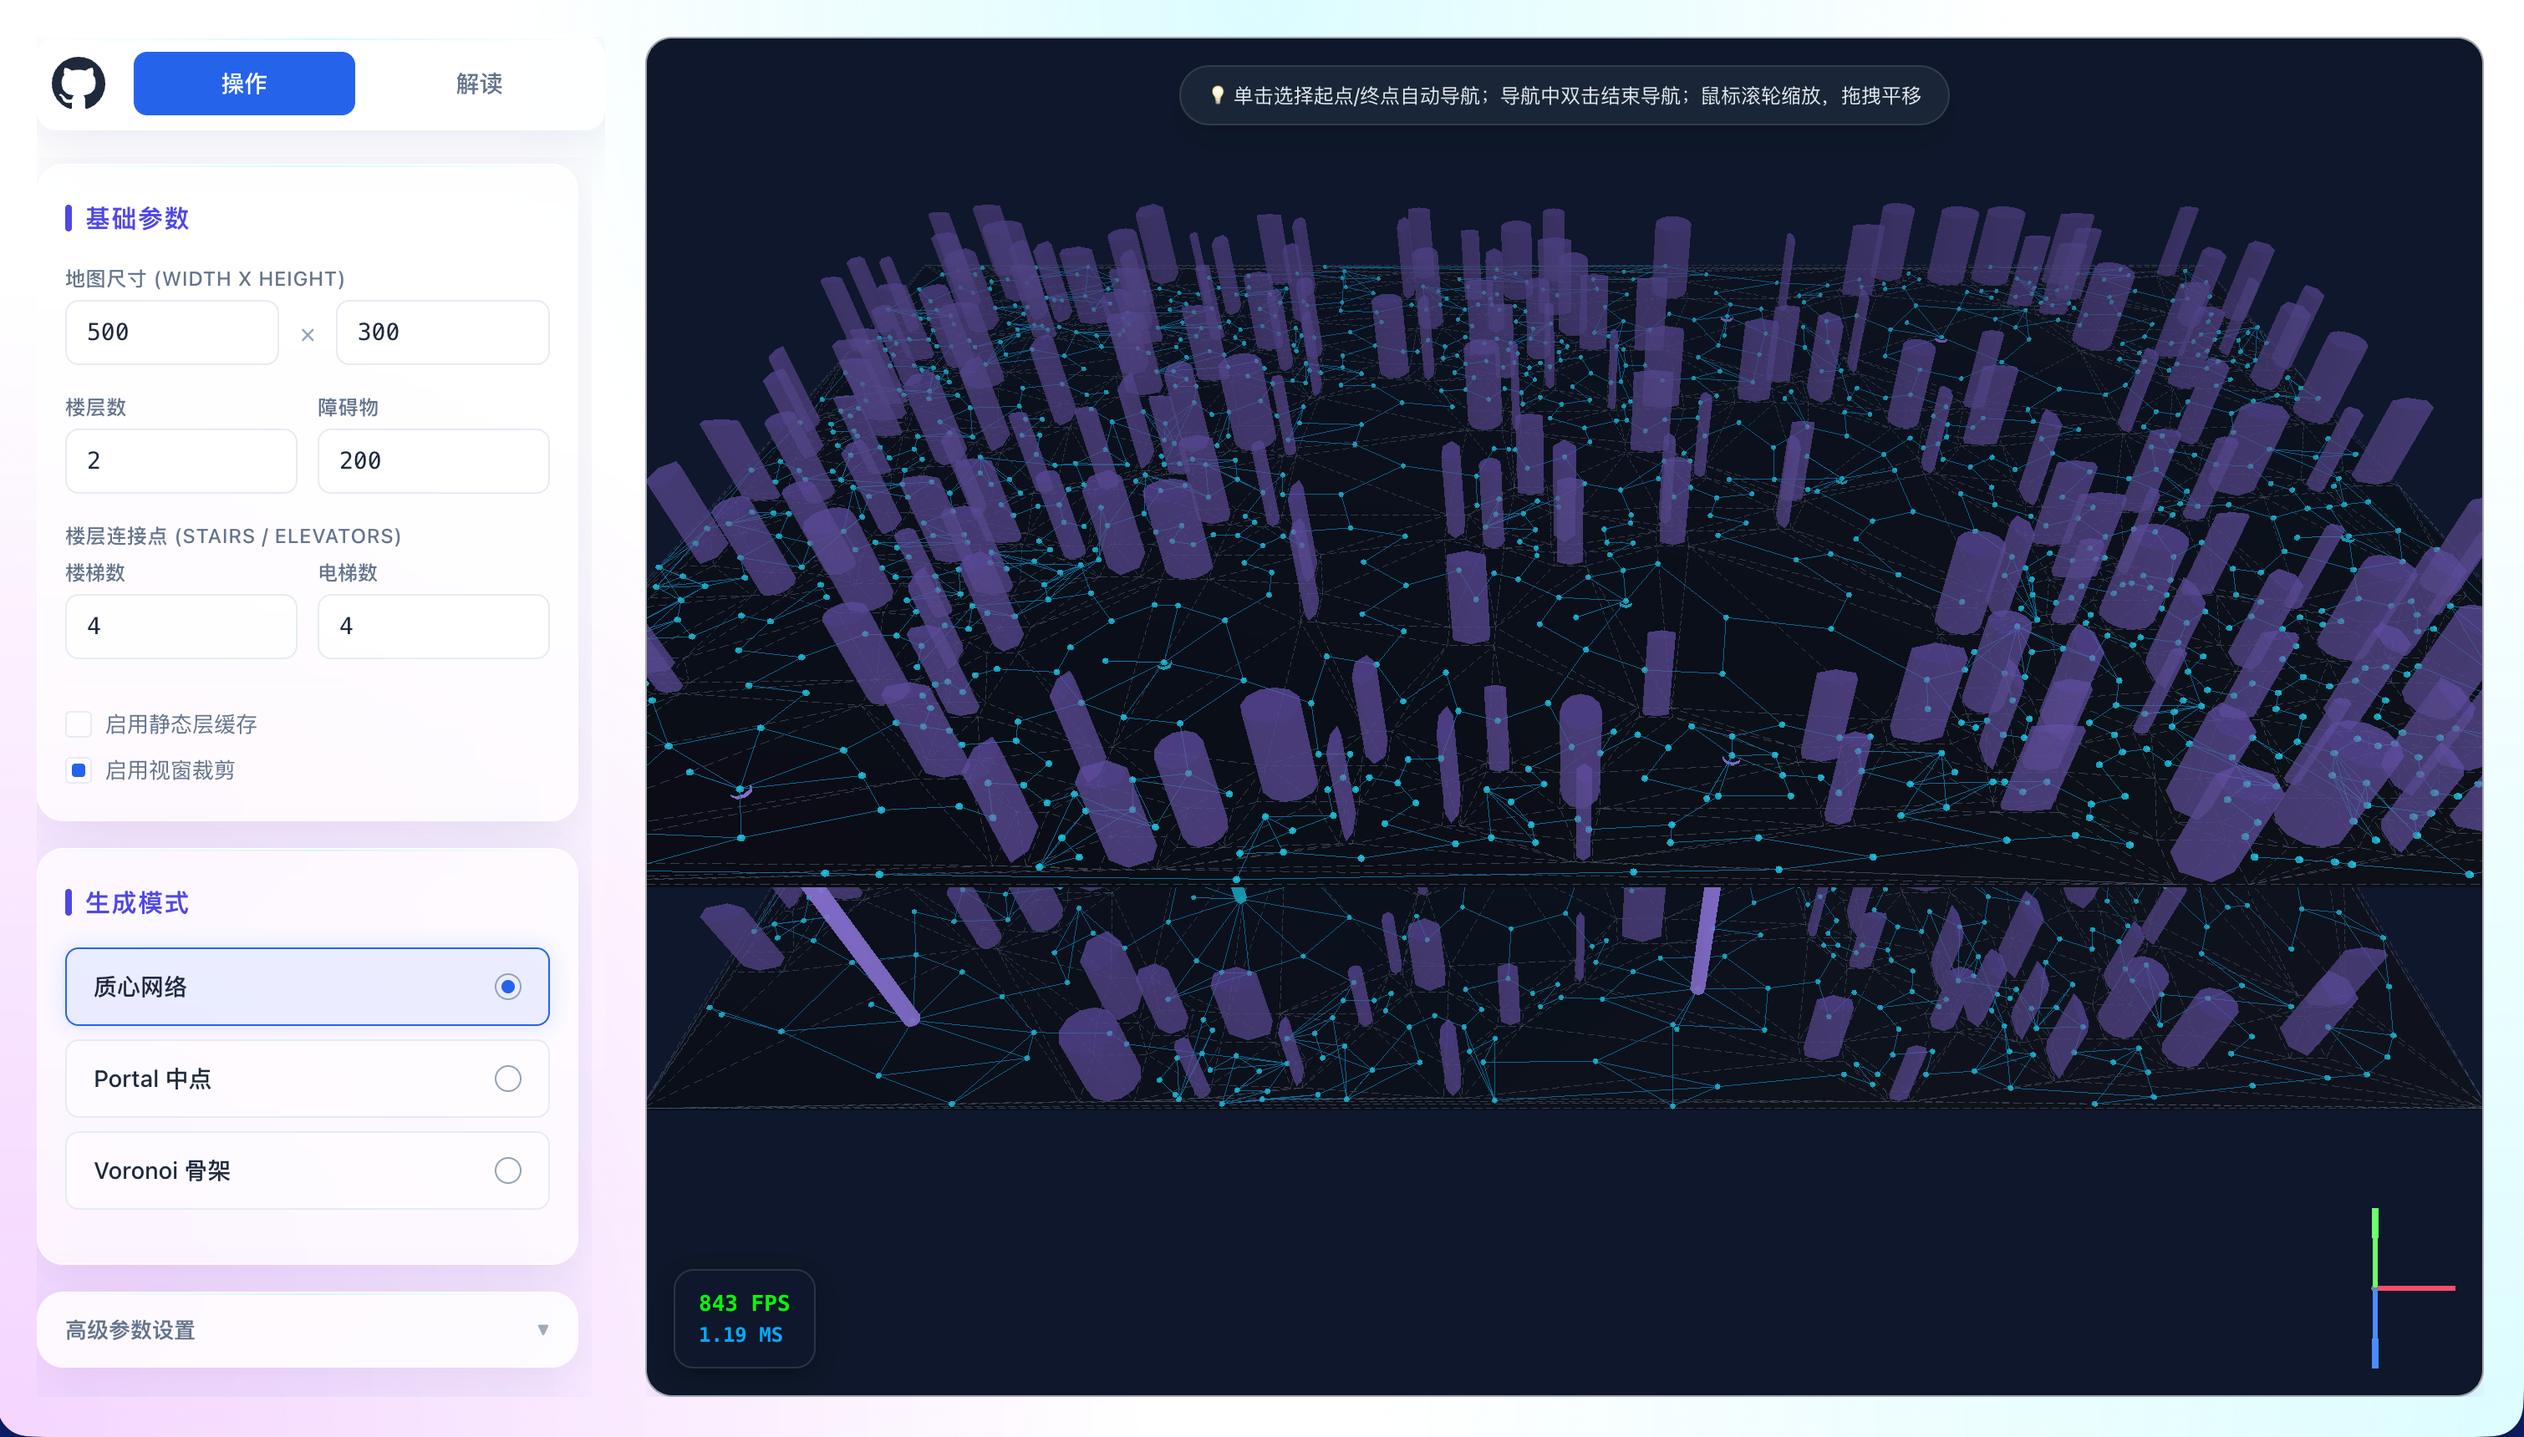
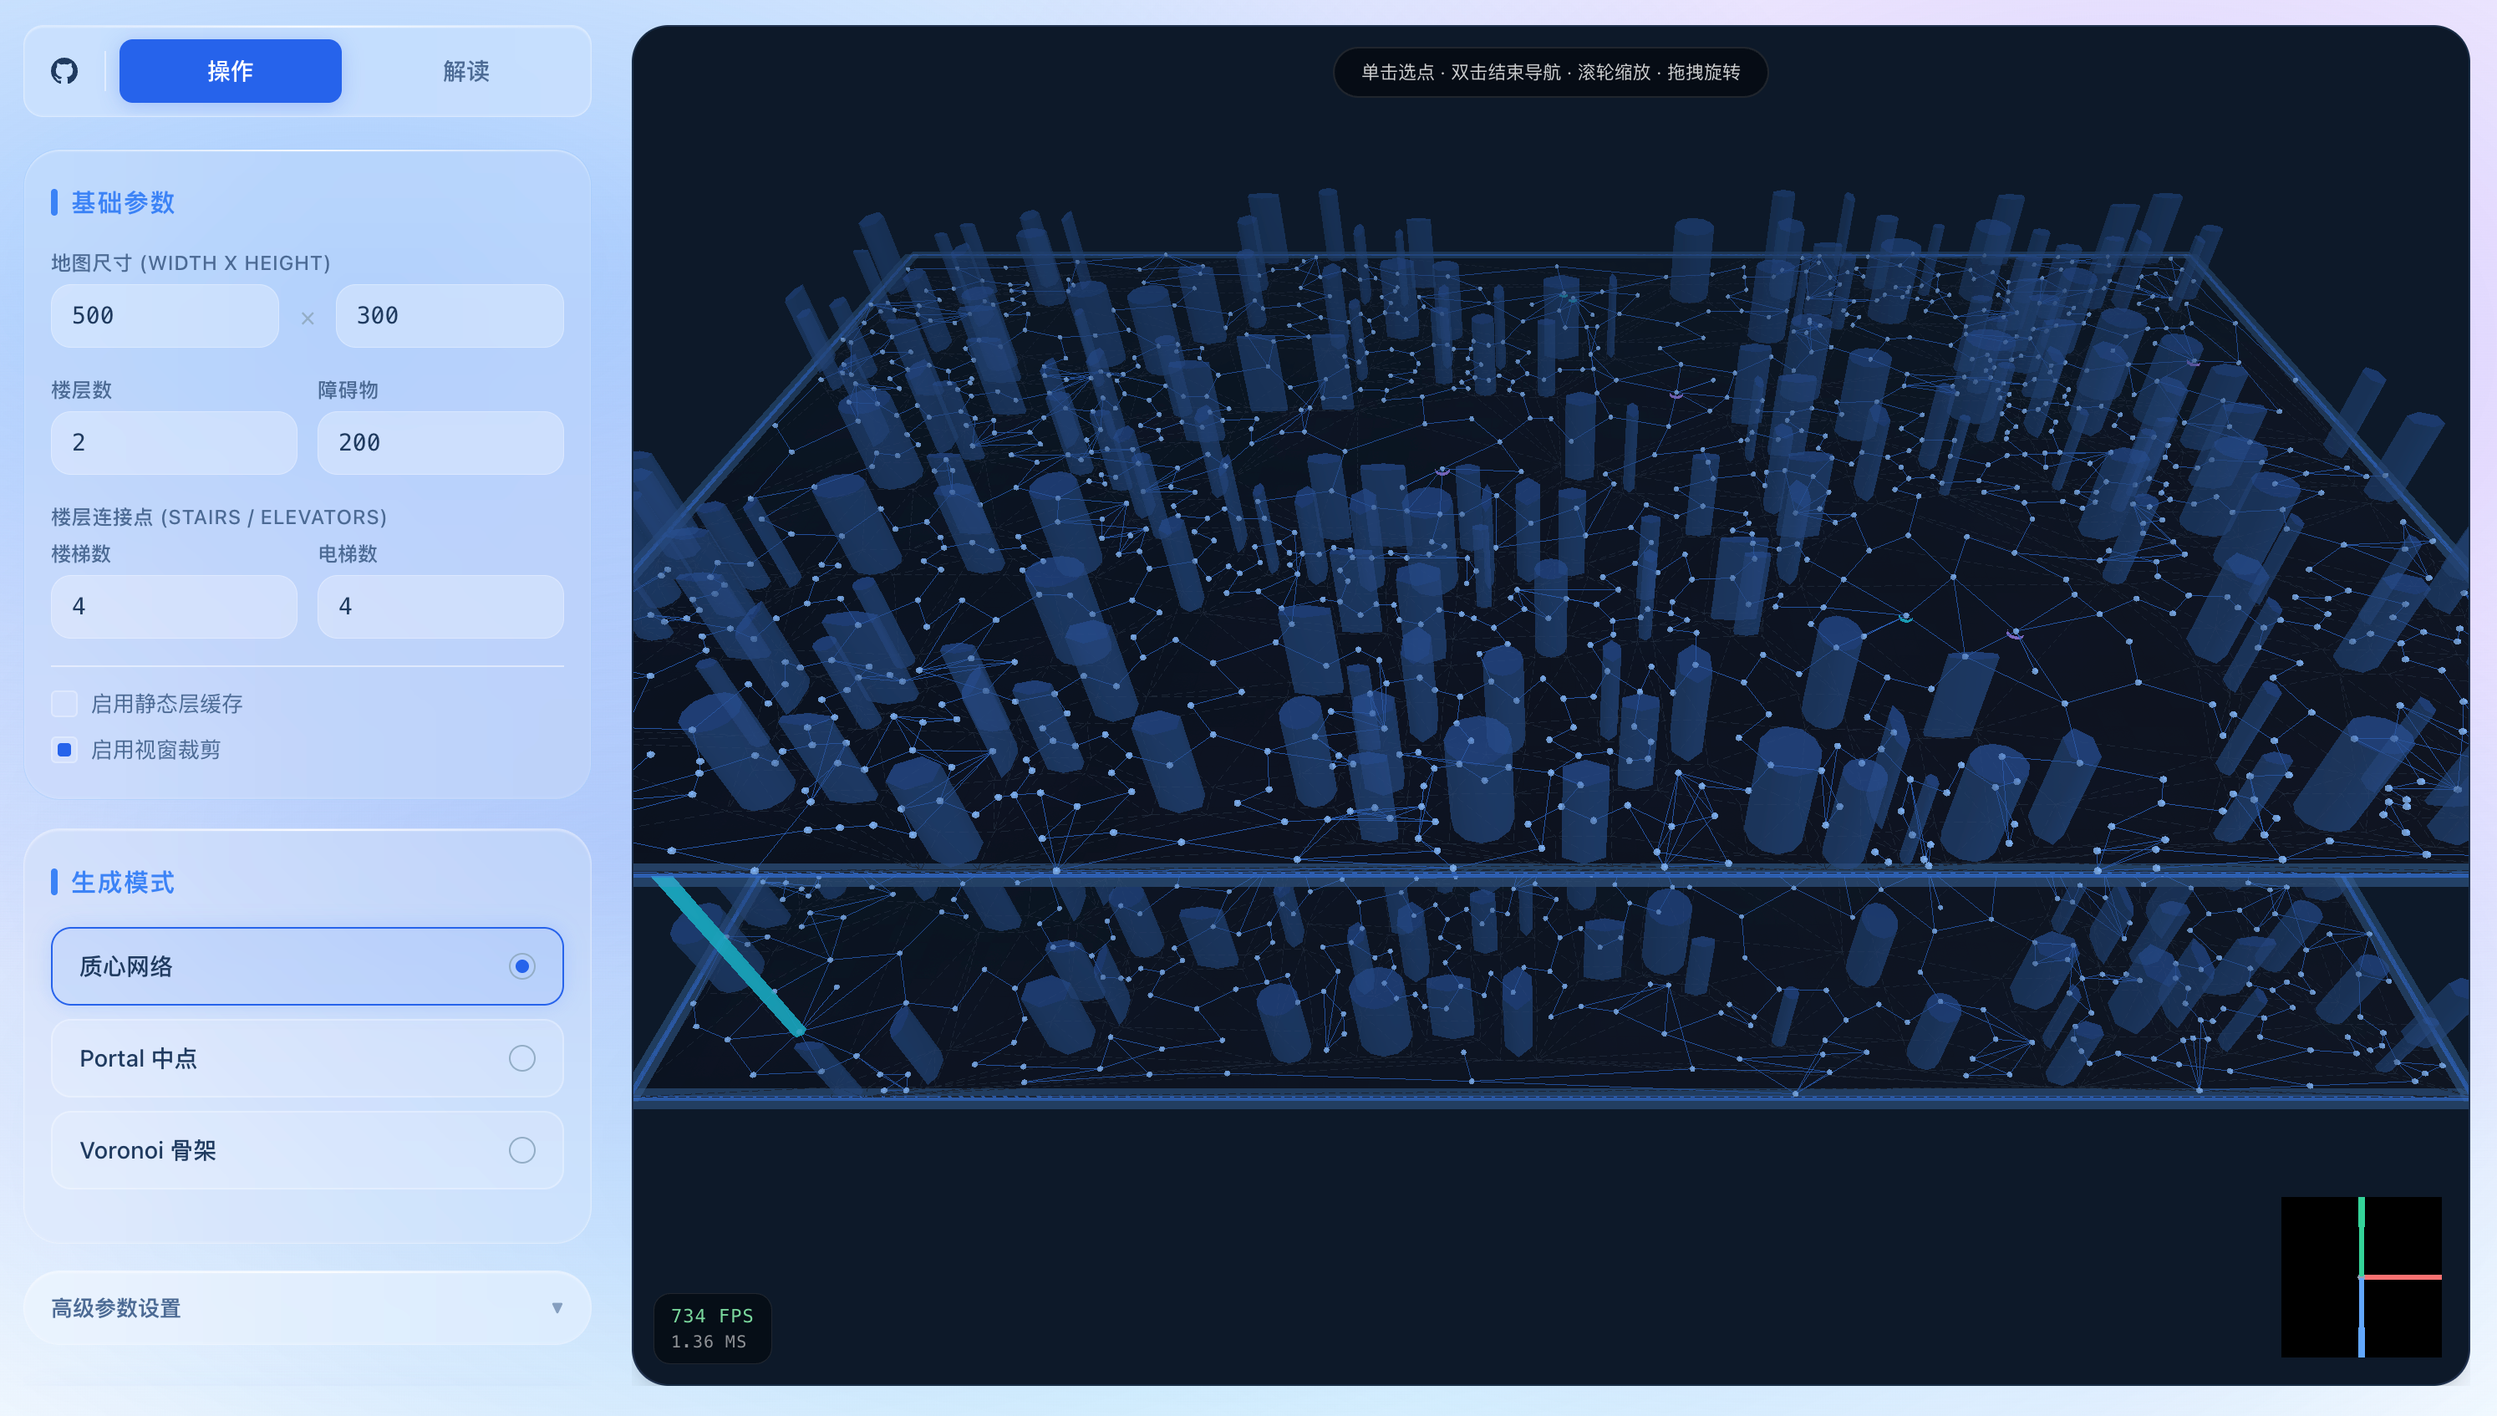
refactor: unify color scheme to Blue 500 monochrome with frosted glass aesthetics
- Updated visualization tokens: path (#22d3ee), end point (#fb923c), network edges (#3b82f6), obstacles (#3b82f6)
- Adjusted 3D renderer colors: nodes (Blue 400), edges (Blue 500), path active (Cyan 400), end node (Orange 400)
- Redesigned floor texture with indoor blueprint style: frosted tile surface, grout lines with embossed effect, noise grain, radial highlight, glowing corner dots
- Added floor border glow strips

diff --git a/src/renderer3d/renderers/LayerRenderer.js b/src/renderer3d/renderers/LayerRenderer.js
@@ -216,82 +216,133 @@ export function renderBaseTriangulation(
 let cachedFloorTexture = null;
 
 /**
- * 创建地板纹理（未来科技风格）
+ * 创建地板纹理（室内蓝图风格 - 磨砂瓷砖 + 接缝 + 噪点质感）
  */
 function createFloorTexture() {
   if (cachedFloorTexture) {
     return cachedFloorTexture;
   }
 
+  const size = 1024;
+  const tile = 128; // 主瓷砖尺寸
   const canvas = document.createElement('canvas');
-  canvas.width = 512;
-  canvas.height = 512;
+  canvas.width = size;
+  canvas.height = size;
   const ctx = canvas.getContext('2d');
 
-  // 基础深色背景
-  ctx.fillStyle = '#0c0f1a';
-  ctx.fillRect(0, 0, 512, 512);
+  // ① 基底：深海蓝
+  ctx.fillStyle = '#101b2e';
+  ctx.fillRect(0, 0, size, size);
 
-  // 主网格线（发光效果）
-  ctx.strokeStyle = '#1e293b';
+  // ② 磨砂噪点（模拟石材微粒质感）
+  const noiseData = ctx.getImageData(0, 0, size, size);
+  const pixels = noiseData.data;
+  for (let i = 0; i < pixels.length; i += 4) {
+    const noise = (Math.random() - 0.5) * 14;
+    pixels[i] = Math.max(0, Math.min(255, pixels[i] + noise));
+    pixels[i + 1] = Math.max(0, Math.min(255, pixels[i + 1] + noise));
+    pixels[i + 2] = Math.max(0, Math.min(255, pixels[i + 2] + noise * 1.5));
+  }
+  ctx.putImageData(noiseData, 0, 0);
+
+  // ③ 每块瓷砖内部微妙色差（模拟天然石材纹理不均匀）
+  for (let tx = 0; tx < size; tx += tile) {
+    for (let ty = 0; ty < size; ty += tile) {
+      const variation = (Math.random() - 0.5) * 0.06;
+      if (variation > 0) {
+        ctx.fillStyle = `rgba(96, 165, 250, ${variation})`;
+      } else {
+        ctx.fillStyle = `rgba(0, 0, 0, ${-variation})`;
+      }
+      ctx.fillRect(tx + 2, ty + 2, tile - 4, tile - 4);
+    }
+  }
+
+  // ④ 中心径向高光（模拟天花板灯光映射在地面）
+  const grad = ctx.createRadialGradient(size / 2, size / 2, 0, size / 2, size / 2, size * 0.7);
+  grad.addColorStop(0, 'rgba(96, 165, 250, 0.12)');
+  grad.addColorStop(0.5, 'rgba(96, 165, 250, 0.04)');
+  grad.addColorStop(1, 'transparent');
+  ctx.fillStyle = grad;
+  ctx.fillRect(0, 0, size, size);
+
+  // ⑤ 瓷砖接缝 - 双线凹槽效果（暗线 + 亮边）
+  // 暗线（凹槽底部）
+  ctx.strokeStyle = 'rgba(0, 0, 0, 0.4)';
+  ctx.lineWidth = 2;
+  for (let i = 0; i <= size; i += tile) {
+    ctx.beginPath();
+    ctx.moveTo(i, 0);
+    ctx.lineTo(i, size);
+    ctx.moveTo(0, i);
+    ctx.lineTo(size, i);
+    ctx.stroke();
+  }
+  // 亮边（凹槽高光边缘）
+  ctx.strokeStyle = 'rgba(96, 165, 250, 0.12)';
   ctx.lineWidth = 1;
-  for (let i = 0; i <= 512; i += 64) {
+  for (let i = 1; i <= size; i += tile) {
     ctx.beginPath();
     ctx.moveTo(i, 0);
-    ctx.lineTo(i, 512);
+    ctx.lineTo(i, size);
     ctx.moveTo(0, i);
-    ctx.lineTo(512, i);
+    ctx.lineTo(size, i);
     ctx.stroke();
   }
 
-  // 细分网格线（更淡）
-  ctx.strokeStyle = '#151b2d';
+  // ⑥ 细分线（每块瓷砖内 4 等分）
+  ctx.strokeStyle = 'rgba(96, 165, 250, 0.04)';
   ctx.lineWidth = 0.5;
-  for (let i = 0; i <= 512; i += 16) {
+  const subTile = tile / 4;
+  for (let i = 0; i <= size; i += subTile) {
+    if (i % tile === 0) continue;
     ctx.beginPath();
     ctx.moveTo(i, 0);
-    ctx.lineTo(i, 512);
+    ctx.lineTo(i, size);
     ctx.moveTo(0, i);
-    ctx.lineTo(512, i);
+    ctx.lineTo(size, i);
     ctx.stroke();
   }
 
-  // 交叉点发光点
-  ctx.fillStyle = '#2563eb';
-  for (let x = 0; x <= 512; x += 64) {
-    for (let y = 0; y <= 512; y += 64) {
-      ctx.beginPath();
-      ctx.arc(x, y, 2, 0, Math.PI * 2);
-      ctx.fill();
+  // ⑦ 接缝交叉点发光（瓷砖四角微光）
+  for (let x = 0; x <= size; x += tile) {
+    for (let y = 0; y <= size; y += tile) {
+      const dotGrad = ctx.createRadialGradient(x, y, 0, x, y, 4);
+      dotGrad.addColorStop(0, 'rgba(96, 165, 250, 0.3)');
+      dotGrad.addColorStop(1, 'transparent');
+      ctx.fillStyle = dotGrad;
+      ctx.fillRect(x - 4, y - 4, 8, 8);
     }
   }
 
   cachedFloorTexture = new THREE.CanvasTexture(canvas);
   cachedFloorTexture.wrapS = THREE.RepeatWrapping;
   cachedFloorTexture.wrapT = THREE.RepeatWrapping;
+  cachedFloorTexture.anisotropy = 4;
 
   return cachedFloorTexture;
 }
 
 /**
- * 渲染室内地板（科技风格）
+ * 渲染室内地板（蓝图风格 - 深海蓝磨砂面）
  */
 export function renderFloor(layerGroup, metadata, yOffset, centerX, centerY) {
   const floorWidth = metadata.width || 100;
   const floorHeight = metadata.height || 100;
 
-  // 创建地板几何体
   const floorGeometry = new THREE.PlaneGeometry(floorWidth, floorHeight);
 
-  // 创建地板材质 - 科技感网格
   const floorTexture = createFloorTexture();
   floorTexture.repeat.set(floorWidth / 50, floorHeight / 50);
 
   const floorMaterial = new THREE.MeshStandardMaterial({
-    color: 0x0c0f1a,
-    roughness: 0.7,
-    metalness: 0.3,
+    color: 0x1a2744,
+    roughness: 0.8,
+    metalness: 0.2,
     map: floorTexture,
+    emissive: 0x0e1525,
+    emissiveIntensity: 0.6,
+    emissiveMap: floorTexture,
     transparent: false,
     side: THREE.DoubleSide,
   });
@@ -303,6 +354,53 @@ export function renderFloor(layerGroup, metadata, yOffset, centerX, centerY) {
   floorMesh.name = 'floor';
 
   layerGroup.add(floorMesh);
+
+  // 地板边缘发光带（蓝图边界 - 用窄面片实现真实发光宽度）
+  const hw = floorWidth / 2;
+  const hh = floorHeight / 2;
+  const y = yOffset - 0.5;
+  const stripW = 1.5; // 发光带宽度
+
+  const borderMat = new THREE.MeshBasicMaterial({
+    color: 0x3b82f6,
+    transparent: true,
+    opacity: 0.5,
+    side: THREE.DoubleSide,
+  });
+  const glowMat = new THREE.MeshBasicMaterial({
+    color: 0x60a5fa,
+    transparent: true,
+    opacity: 0.15,
+    side: THREE.DoubleSide,
+  });
+
+  // 四条边的发光带
+  const edges = [
+    { pos: [0, y, -hh], rot: 0, len: floorWidth },
+    { pos: [0, y,  hh], rot: 0, len: floorWidth },
+    { pos: [-hw, y, 0], rot: Math.PI / 2, len: floorHeight },
+    { pos: [ hw, y, 0], rot: Math.PI / 2, len: floorHeight },
+  ];
+
+  edges.forEach(({ pos, rot, len }) => {
+    // 内层亮线
+    const geo = new THREE.PlaneGeometry(len, stripW);
+    const mesh = new THREE.Mesh(geo, borderMat);
+    mesh.position.set(pos[0], pos[1], pos[2]);
+    mesh.rotation.x = -Math.PI / 2;
+    if (rot) mesh.rotation.z = rot;
+    mesh.name = 'floorBorder';
+    layerGroup.add(mesh);
+
+    // 外层光晕（更宽更淡）
+    const glowGeo = new THREE.PlaneGeometry(len + 2, stripW * 4);
+    const glowMesh = new THREE.Mesh(glowGeo, glowMat);
+    glowMesh.position.set(pos[0], pos[1] - 0.1, pos[2]);
+    glowMesh.rotation.x = -Math.PI / 2;
+    if (rot) glowMesh.rotation.z = rot;
+    glowMesh.name = 'floorGlow';
+    layerGroup.add(glowMesh);
+  });
 }
 
 export function renderGrid(layerGroup, metadata, yOffset) {

diff --git a/src/renderer3d/renderers/ObstacleRenderer.js b/src/renderer3d/renderers/ObstacleRenderer.js
@@ -146,54 +146,54 @@ function createRoundedBoxGeometry(width, height, depth, radius) {
  */
 function createObstacleMaterials(config) {
   return {
-    // 主要障碍物材质 - 数据晶体风格
+    // 主要障碍物材质 - 蓝色磨砂玻璃
     primary: new THREE.MeshStandardMaterial({
-      color: 0x8b5cf6, // Violet 500 主色
-      roughness: 0.25,
-      metalness: 0.7, // 高金属感
-      emissive: 0xa78bfa, // Violet 400 边缘发光
-      emissiveIntensity: 0.35, // 增强发光
+      color: 0x3b82f6, // Blue 500
+      roughness: 0.3,
+      metalness: 0.5,
+      emissive: 0x60a5fa, // Blue 400 柔和发光
+      emissiveIntensity: 0.2,
       transparent: true,
-      opacity: 0.55, // 更透明的晶体效果
+      opacity: 0.45,
       depthWrite: true,
       side: THREE.FrontSide,
     }),
 
-    // 商店/房间材质 - 深紫调
+    // 商店/房间材质 - 深蓝玻璃
     shop: new THREE.MeshStandardMaterial({
-      color: 0x7c3aed, // Violet 600
-      roughness: 0.3,
-      metalness: 0.65,
-      emissive: 0x8b5cf6, // Violet 500
-      emissiveIntensity: 0.3,
-      transparent: true,
-      opacity: 0.6,
-      depthWrite: true,
-      side: THREE.FrontSide,
-    }),
-
-    // 柱子材质 - 更有金属感的紫色
-    pillar: new THREE.MeshStandardMaterial({
-      color: 0x7c3aed, // Violet 600
-      roughness: 0.3,
-      metalness: 0.6,
-      emissive: 0x6d28d9, // Violet 700
-      emissiveIntensity: 0.25,
-      transparent: true,
-      opacity: 0.8,
-      depthWrite: true,
-      side: THREE.FrontSide,
-    }),
-
-    // 特殊区域材质 - 浅蓝紫玻璃
-    special: new THREE.MeshStandardMaterial({
-      color: 0x818cf8, // Indigo 400
+      color: 0x2563eb, // Blue 600
       roughness: 0.35,
-      metalness: 0.55,
-      emissive: 0x6366f1, // Indigo 500
+      metalness: 0.45,
+      emissive: 0x3b82f6, // Blue 500
       emissiveIntensity: 0.18,
       transparent: true,
-      opacity: 0.65, // 更透明
+      opacity: 0.5,
+      depthWrite: true,
+      side: THREE.FrontSide,
+    }),
+
+    // 柱子材质 - 实心蓝色
+    pillar: new THREE.MeshStandardMaterial({
+      color: 0x1d4ed8, // Blue 700
+      roughness: 0.4,
+      metalness: 0.4,
+      emissive: 0x2563eb, // Blue 600
+      emissiveIntensity: 0.15,
+      transparent: true,
+      opacity: 0.7,
+      depthWrite: true,
+      side: THREE.FrontSide,
+    }),
+
+    // 特殊区域材质 - 浅蓝透明玻璃
+    special: new THREE.MeshStandardMaterial({
+      color: 0x60a5fa, // Blue 400
+      roughness: 0.25,
+      metalness: 0.55,
+      emissive: 0x93c5fd, // Blue 300
+      emissiveIntensity: 0.12,
+      transparent: true,
+      opacity: 0.35,
       depthWrite: true,
       side: THREE.FrontSide,
     }),

diff --git a/src/renderer3d/config/Renderer3DConfig.js b/src/renderer3d/config/Renderer3DConfig.js
@@ -41,23 +41,23 @@ export const Renderer3DConfig = {
   // 颜色配置 - iOS 26 Monochrome Blue
   colors: {
     background: 0x0c1929, // 深海蓝背景
-    floor: 0x162033, // 深蓝地板
-    node: 0x38bdf8, // Sky 400 网络节点
-    nodeEmissive: 0x60a5fa, // Blue 400 发光
-    edge: 0x38bdf8, // Sky 400 主网络边
+    floor: 0x0e1525, // 深蓝磨砂地板
+    node: 0x60a5fa, // Blue 400 网络节点
+    nodeEmissive: 0x93c5fd, // Blue 300 柔和发光
+    edge: 0x3b82f6, // Blue 500 主网络边
     voronoiEdge: 0x818cf8, // Indigo 400 Voronoi骨架
-    triangulation: 0x475569, // Slate 600 基础三角化
-    obstacle: 0x6366f1, // Indigo 500 障碍物
-    obstacleEmissive: 0x818cf8, // Indigo 400 发光
-    pathActive: 0x60a5fa, // Blue 400 能量色
-    pathBurned: 0x38bdf8, // Sky 400 保持可见
+    triangulation: 0x334155, // Slate 700 基础三角化
+    obstacle: 0x3b82f6, // Blue 500 障碍物
+    obstacleEmissive: 0x60a5fa, // Blue 400 发光
+    pathActive: 0x22d3ee, // Cyan 400 路径能量色
+    pathBurned: 0x67e8f9, // Cyan 300 已走过
     startNode: 0x34d399, // Emerald 400 起点
     startNodeEmissive: 0x10b981,
-    endNode: 0xf87171, // Red 400 终点
-    endNodeEmissive: 0xef4444,
+    endNode: 0xfb923c, // Orange 400 终点
+    endNodeEmissive: 0xf97316,
     grid: {
       primary: 0x1e3a5f, // 蓝色网格
-      secondary: 0x162033, // 深蓝次要网格
+      secondary: 0x0e1525, // 深蓝次要网格
     },
   },
 

diff --git a/src/css/tokens.css b/src/css/tokens.css
@@ -42,18 +42,18 @@
 
   /* 可视化元素色 - 与 3D 渲染器同步 */
   --viz-start-point: #34d399;
-  --viz-end-point: #f87171;
-  --viz-path: #38bdf8;
+  --viz-end-point: #fb923c;
+  --viz-path: #22d3ee;
 
   /* 网络元素 - Blue Mono 主题 */
-  --viz-network-edge: #38bdf8;
-  --viz-network-edge-secondary: #64748b;
-  --viz-node: #38bdf8;
-  --viz-node-glow: rgba(56, 189, 248, 0.35);
+  --viz-network-edge: #3b82f6;
+  --viz-network-edge-secondary: #334155;
+  --viz-node: #60a5fa;
+  --viz-node-glow: rgba(96, 165, 250, 0.35);
 
-  /* 3D 障碍物 - Blue-Indigo 渐变 */
-  --viz-obstacle: #818cf8;
-  --viz-obstacle-border: #a5b4fc;
+  /* 3D 障碍物 - Blue 磨砂玻璃 */
+  --viz-obstacle: #3b82f6;
+  --viz-obstacle-border: #60a5fa;
 
   /* Voronoi 骨架 - Indigo */
   --viz-voronoi: #818cf8;
